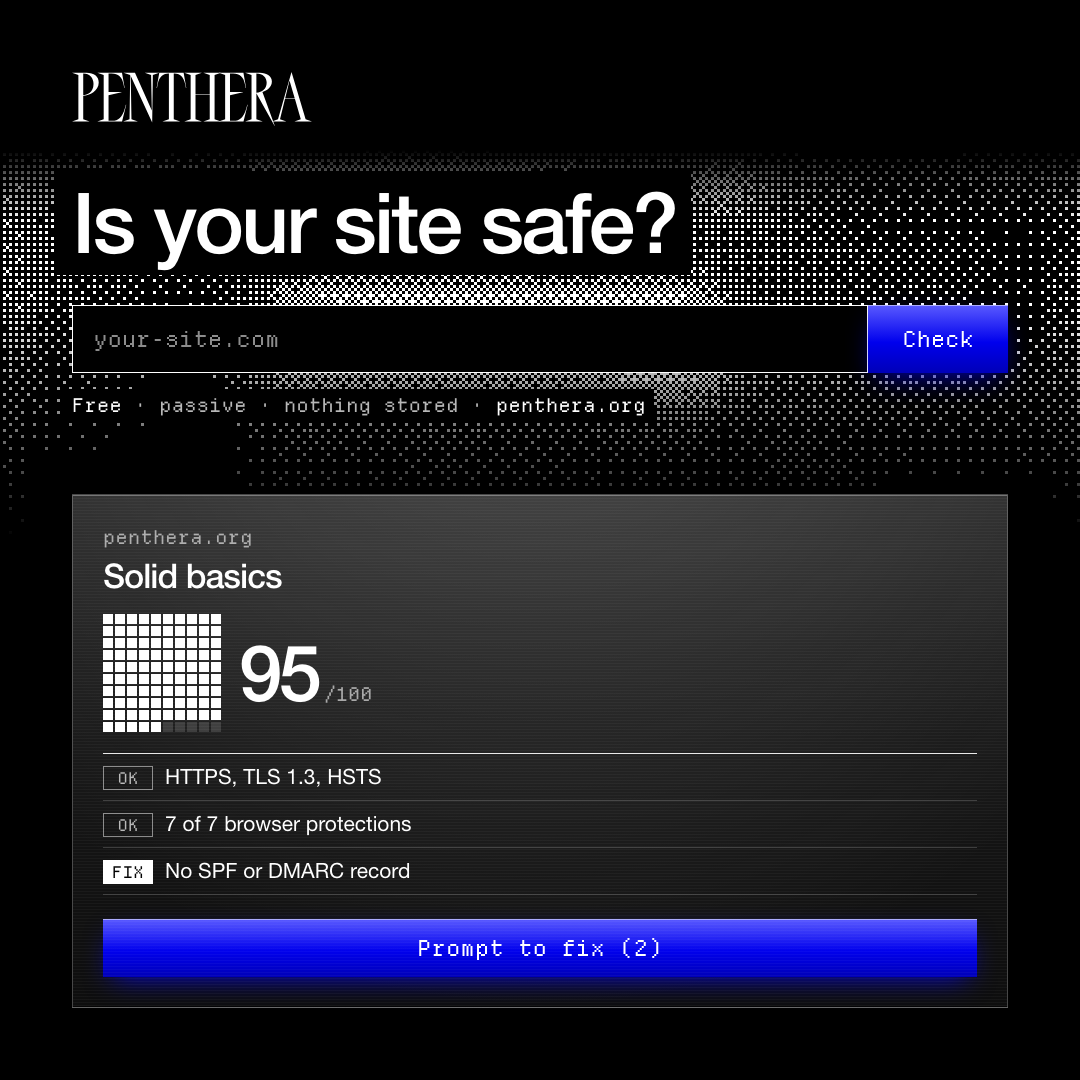
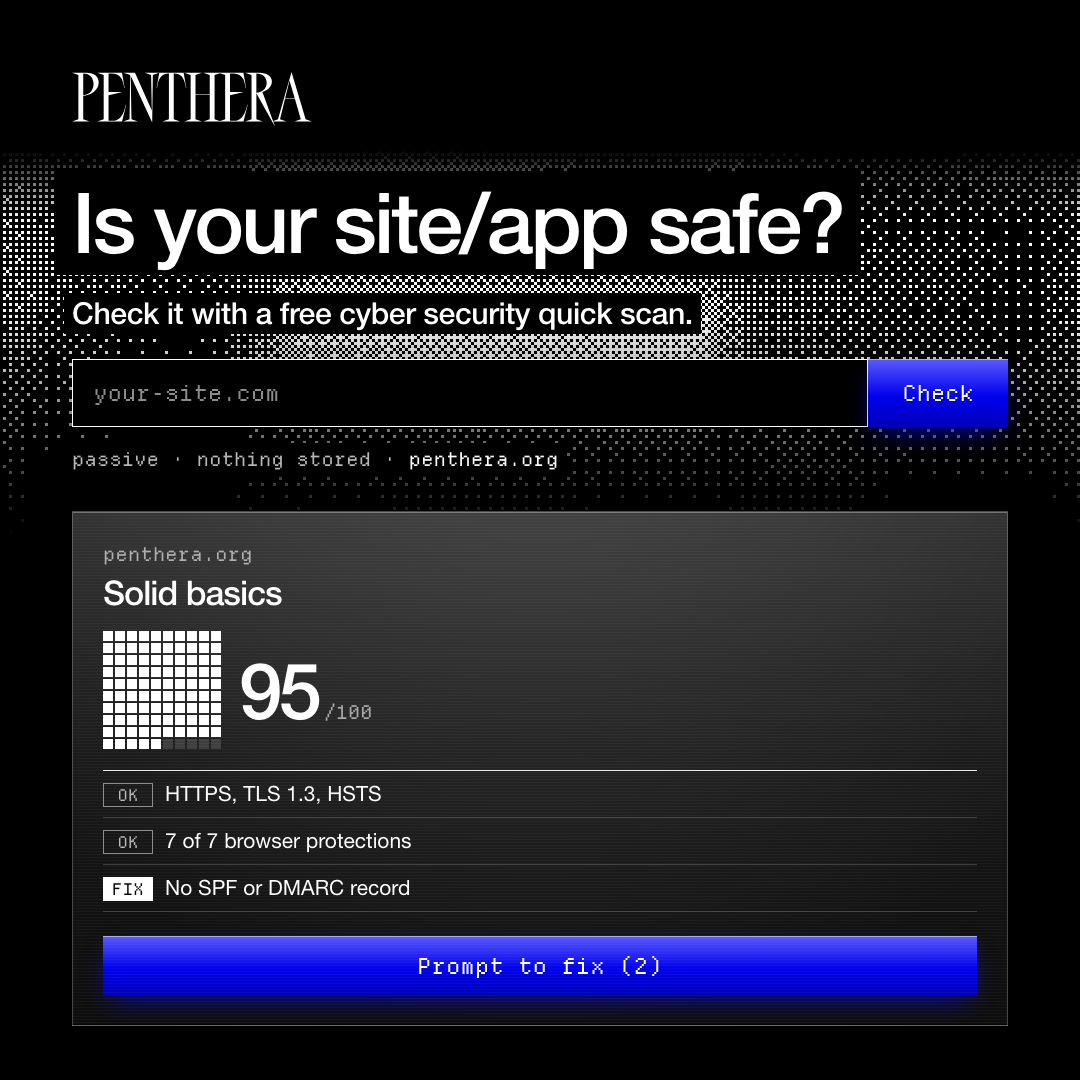
site: the About in Daan's words, and the scan tagline everywhere
About: building Penthera at night alongside a PhD in AI and architecture,
15 years and 100+ apps, the sanity-check scripts, and why the basics
matter now. The tagline "Is your site/app safe? Check it with a free
cyber security quick scan." is above the scan field, on both share cards
and in the link-preview description.

AI-Assisted: Claude Code with Claude Opus 5.5; edited Daan's About draft (approved by him) and re-rendered the cards

Changed region(s): [[0.0611, 0.1528, 0.9472, 0.9472]]

diff --git a/site/index.html b/site/index.html
@@ -4,20 +4,20 @@
   <meta charset="utf-8">
   <meta name="viewport" content="width=device-width, initial-scale=1">
   <title>Penthera</title>
-  <meta name="description" content="Offline security checks for your app, its dependencies and your AI coding tools. Open source, rule-based, and you can verify every finding.">
+  <meta name="description" content="Is your site/app safe? Check it with a free cyber security quick scan, then fix it with your coding agent. Open source, passive, nothing stored.">
   <meta name="color-scheme" content="dark light">
   <meta name="theme-color" content="#000000">
   <link rel="canonical" href="{{SITE_URL}}/">
   {{JSONLD}}
   <meta property="og:site_name" content="Penthera">
   <meta property="og:title" content="Penthera: your open-source security agent">
-  <meta property="og:description" content="Offline security checks for your app, its dependencies and your AI coding tools. Open source, rule-based, and you can verify every finding.">
+  <meta property="og:description" content="Is your site/app safe? Check it with a free cyber security quick scan, then fix it with your coding agent. Open source, passive, nothing stored.">
   <meta property="og:type" content="website">
   <meta property="og:url" content="{{SITE_URL}}/">
   <meta property="og:image" content="{{SITE_URL}}/media/social/og.png">
   <meta property="og:image:width" content="1200">
   <meta property="og:image:height" content="630">
-  <meta property="og:image:alt" content="Penthera. Free. Your open-source cyber security agent. npx penthera, open source, MIT, offline.">
+  <meta property="og:image:alt" content="Is your site/app safe? A Penthera quick scan of penthera.org: 95 out of 100, with Prompt to fix.">
   <!-- A muted reel for link previews that play video (iMessage and others);
        og:image stays the poster and the fallback. Rendered by
        site/tools/reel.mjs. X keeps the image card: twitter:player needs an
@@ -29,9 +29,9 @@
   <meta property="og:video:height" content="630">
   <meta name="twitter:card" content="summary_large_image">
   <meta name="twitter:title" content="Penthera: your open-source security agent">
-  <meta name="twitter:description" content="Offline security checks for your app, its dependencies and your AI coding tools. Open source, rule-based, and you can verify every finding.">
+  <meta name="twitter:description" content="Is your site/app safe? Check it with a free cyber security quick scan, then fix it with your coding agent. Open source, passive, nothing stored.">
   <meta name="twitter:image" content="{{SITE_URL}}/media/social/og.png">
-  <meta name="twitter:image:alt" content="Penthera. Free. Your open-source cyber security agent. npx penthera, open source, MIT, offline.">
+  <meta name="twitter:image:alt" content="Is your site/app safe? A Penthera quick scan of penthera.org: 95 out of 100, with Prompt to fix.">
   <link rel="icon" href="/favicon.svg" type="image/svg+xml">
   <link rel="alternate" type="text/plain" href="/llms.txt" title="llms.txt: Penthera for language models">
   <link rel="preload" href="/fonts/DepartureMono-Regular.woff2" as="font" type="font/woff2" crossorigin>
@@ -73,7 +73,7 @@
       <div class="hero-text">
         <p class="problem"><span>AI coding tools ship faster than anyone can check.</span></p>
         <form class="scan" id="scan" data-scan novalidate>
-          <label class="scan-label" for="scan-url">Is your site safe? Check it in a few seconds.</label>
+          <label class="scan-label" for="scan-url">Is your site/app safe? Check it with a free cyber security quick scan.</label>
           <div class="scan-row">
             <input id="scan-url" name="url" type="text" inputmode="url" autocomplete="url" autocapitalize="off" spellcheck="false" placeholder="your-site.com" required>
             <button class="btn scan-go" data-variant="default" type="submit">Check</button>
@@ -487,7 +487,8 @@
     <section class="about" id="about" aria-labelledby="about-title">
       <p class="eyebrow">08 · About</p>
       <h2 id="about-title">Why Penthera exists.</h2>
-      <p class="about-text">I'm Daan van der Zwaag. I build Penthera in the open, part-time, alongside a PhD. AI coding tools let anyone ship an app, but checking it for security still takes a specialist. Penthera is my attempt to close that gap with a tool anyone can run and verify: readable rules, no account, nothing sent anywhere. It stays free and MIT-licensed, and the research behind it is published as it happens, including what doesn't work.</p>
+      <p class="about-text">I build Penthera in the open, at night, alongside my PhD in AI and architecture. In 15 years I designed and built more than 100 apps for startups and governments, some used by millions of people. Security was always expected of me, so I collected the tricks and scripts I run before anything ships. Penthera is that sanity check, for everyone.</p>
+      <p class="about-text">AI coding tools let far more people build. The security basics have to keep up, or apps leak data and run up credit-card bills. I believe technology does more good than harm when it is designed for people. Penthera uses research-backed methods and what I learned building agents: readable rules, free and MIT-licensed, to help builders ship safe apps.</p>
       <p class="about-contact">Questions or ideas: <a href="https://github.com/danoszz/penthera/discussions">GitHub Discussions</a>. Bugs and false positives: <a href="https://github.com/danoszz/penthera/issues">issues</a>. A vulnerability in Penthera itself: <a href="/.well-known/security.txt">security.txt</a>.</p>
       <a class="by" href="https://daanvanderzwaag.com"><span class="by-word">Made by</span><span class="dvdz" aria-hidden="true"></span><span class="sr">Daan van der Zwaag</span></a>
     </section>

diff --git a/tests/site.test.js b/tests/site.test.js
@@ -385,7 +385,7 @@ describe("site story", () => {
 
   it("ends with who builds it and why, how to reach him, and the signature", () => {
     const about = html().slice(html().indexOf('id="about"'));
-    expect(about).toContain("I'm Daan van der Zwaag. I build Penthera in the open, part-time, alongside a PhD.");
+    expect(about).toContain("I build Penthera in the open, at night, alongside my PhD in AI and architecture.");
     for (const href of ["github.com/danoszz/penthera/discussions", "github.com/danoszz/penthera/issues", "/.well-known/security.txt", "https://daanvanderzwaag.com"]) expect(about, href).toContain(href);
     expect(about.indexOf('class="about-text"')).toBeLessThan(about.indexOf('class="by"'));
   });

diff --git a/site/styles.css b/site/styles.css
@@ -1131,6 +1131,8 @@ main > .desk { padding-top: clamp(64px, 8vw, 120px); }
 @media (min-width: 860px) { .tour-shots { grid-template-columns: 1fr 1fr; } }
 .tour-shots figure { margin: 0; }
 .tour-shots img { display: block; width: 100%; height: auto; border: 1px solid var(--frame); }
+.about-text + .about-text { margin-top: 20px; }
+.about { padding-bottom: clamp(96px, 12vw, 160px); }
 .about-text { margin-top: 28px; max-width: 60ch; font-family: var(--display); font-size: clamp(21px, 2.3vw, 28px); line-height: 1.35; letter-spacing: -0.01em; color: var(--text-1); }
 .about-contact { margin-top: 20px; max-width: 64ch; }
 .about .by { margin-top: 48px; }
